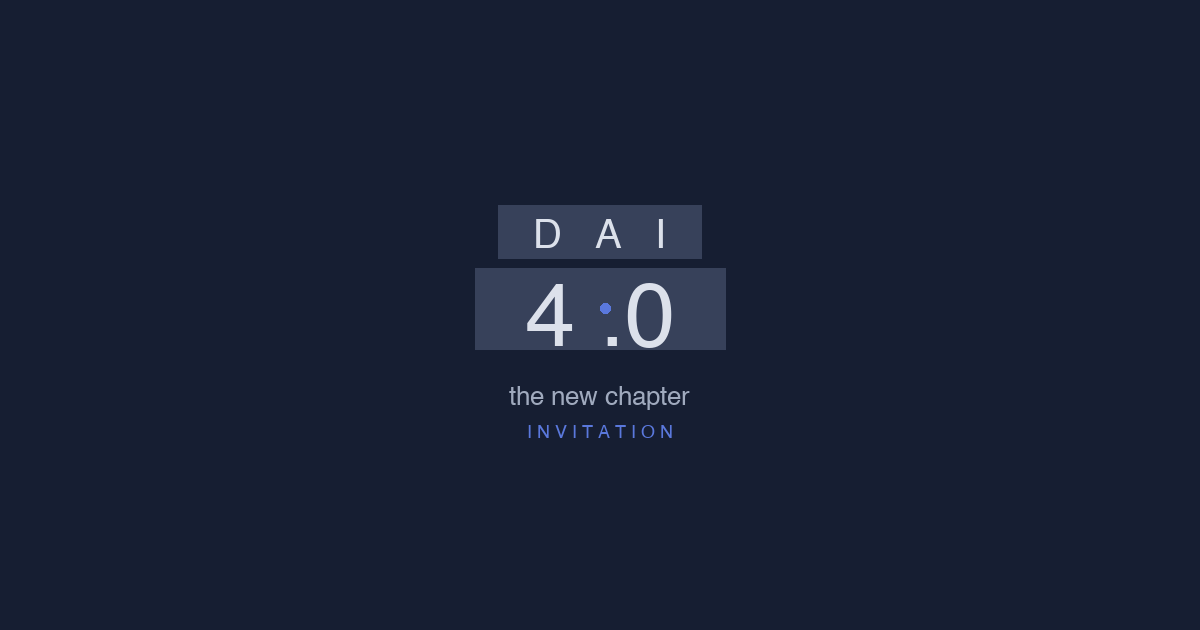
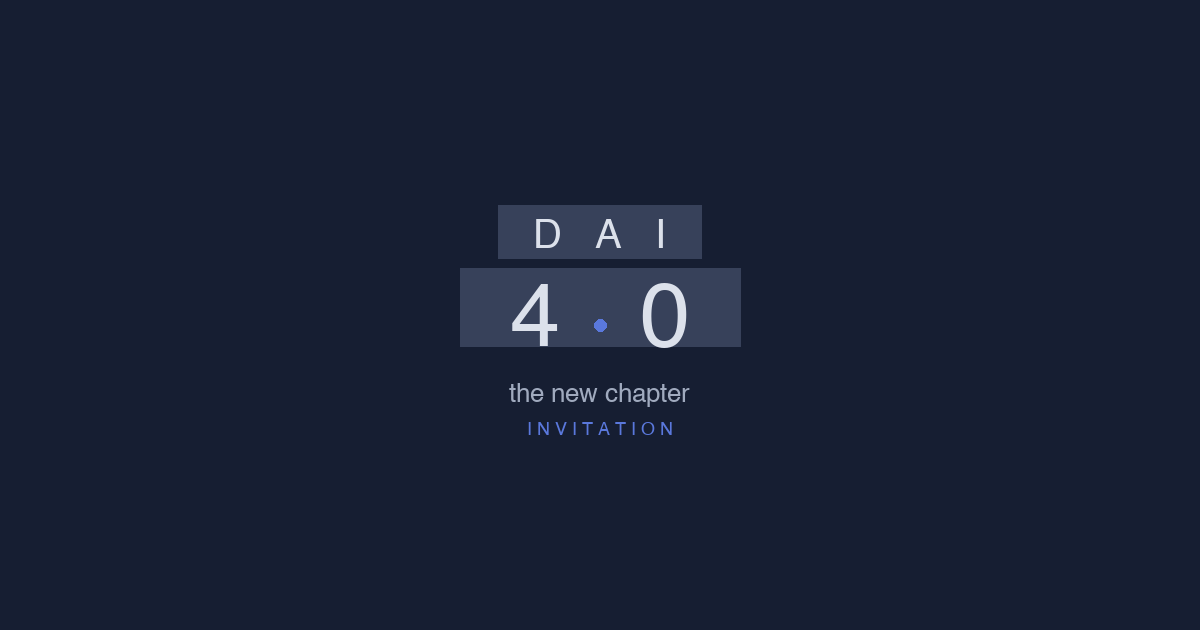
OG: fix dot position + title Dai 4.0 Invitation

Changed region(s): [[0.37, 0.4222, 0.6167, 0.573], [0.4317, 0.6032, 0.5858, 0.6937]]

diff --git a/forever/index.html b/forever/index.html
@@ -1,16 +1,16 @@
 <!DOCTYPE html>
 <html lang="zh-TW">
 <head>
-<meta property="og:title" content="DAI 4.0 · You’re Invited">
+<meta property="og:title" content="Dai 4.0 Invitation">
 <meta property="og:description" content="06.20 SAT · 17:30 — The Green House">
-<meta property="og:image" content="https://johnnytai8855.github.io/dai40/og-image.png?v=5">
+<meta property="og:image" content="https://johnnytai8855.github.io/dai40/og-image.png?v=6">
 <meta property="og:image:width" content="1200">
 <meta property="og:image:height" content="630">
 <meta property="og:image:type" content="image/png">
 <meta property="og:url" content="https://johnnytai8855.github.io/dai40/forever">
 <meta property="og:type" content="website">
 <meta name="twitter:card" content="summary_large_image">
-<meta name="twitter:image" content="https://johnnytai8855.github.io/dai40/og-image.png?v=5">
+<meta name="twitter:image" content="https://johnnytai8855.github.io/dai40/og-image.png?v=6">
 
 <meta charset="UTF-8">
 <meta name="viewport" content="width=device-width, initial-scale=1.0, user-scalable=no">

diff --git a/alumni/index.html b/alumni/index.html
@@ -1,16 +1,16 @@
 <!DOCTYPE html>
 <html lang="zh-TW">
 <head>
-<meta property="og:title" content="DAI 4.0 · You’re Invited">
+<meta property="og:title" content="Dai 4.0 Invitation">
 <meta property="og:description" content="06.14 SAT · 17:30 — The Green House">
-<meta property="og:image" content="https://johnnytai8855.github.io/dai40/og-image.png?v=5">
+<meta property="og:image" content="https://johnnytai8855.github.io/dai40/og-image.png?v=6">
 <meta property="og:image:width" content="1200">
 <meta property="og:image:height" content="630">
 <meta property="og:image:type" content="image/png">
 <meta property="og:url" content="https://johnnytai8855.github.io/dai40/alumni">
 <meta property="og:type" content="website">
 <meta name="twitter:card" content="summary_large_image">
-<meta name="twitter:image" content="https://johnnytai8855.github.io/dai40/og-image.png?v=5">
+<meta name="twitter:image" content="https://johnnytai8855.github.io/dai40/og-image.png?v=6">
 
 <meta charset="UTF-8">
 <meta name="viewport" content="width=device-width, initial-scale=1.0, user-scalable=no">

diff --git a/family/index.html b/family/index.html
@@ -1,16 +1,16 @@
 <!DOCTYPE html>
 <html lang="zh-TW">
 <head>
-<meta property="og:title" content="DAI 4.0 · You’re Invited">
+<meta property="og:title" content="Dai 4.0 Invitation">
 <meta property="og:description" content="07.04 SAT · 15:00 — The Green House">
-<meta property="og:image" content="https://johnnytai8855.github.io/dai40/og-image.png?v=5">
+<meta property="og:image" content="https://johnnytai8855.github.io/dai40/og-image.png?v=6">
 <meta property="og:image:width" content="1200">
 <meta property="og:image:height" content="630">
 <meta property="og:image:type" content="image/png">
 <meta property="og:url" content="https://johnnytai8855.github.io/dai40/family">
 <meta property="og:type" content="website">
 <meta name="twitter:card" content="summary_large_image">
-<meta name="twitter:image" content="https://johnnytai8855.github.io/dai40/og-image.png?v=5">
+<meta name="twitter:image" content="https://johnnytai8855.github.io/dai40/og-image.png?v=6">
 
 <meta charset="UTF-8">
 <meta name="viewport" content="width=device-width, initial-scale=1.0, user-scalable=no">
